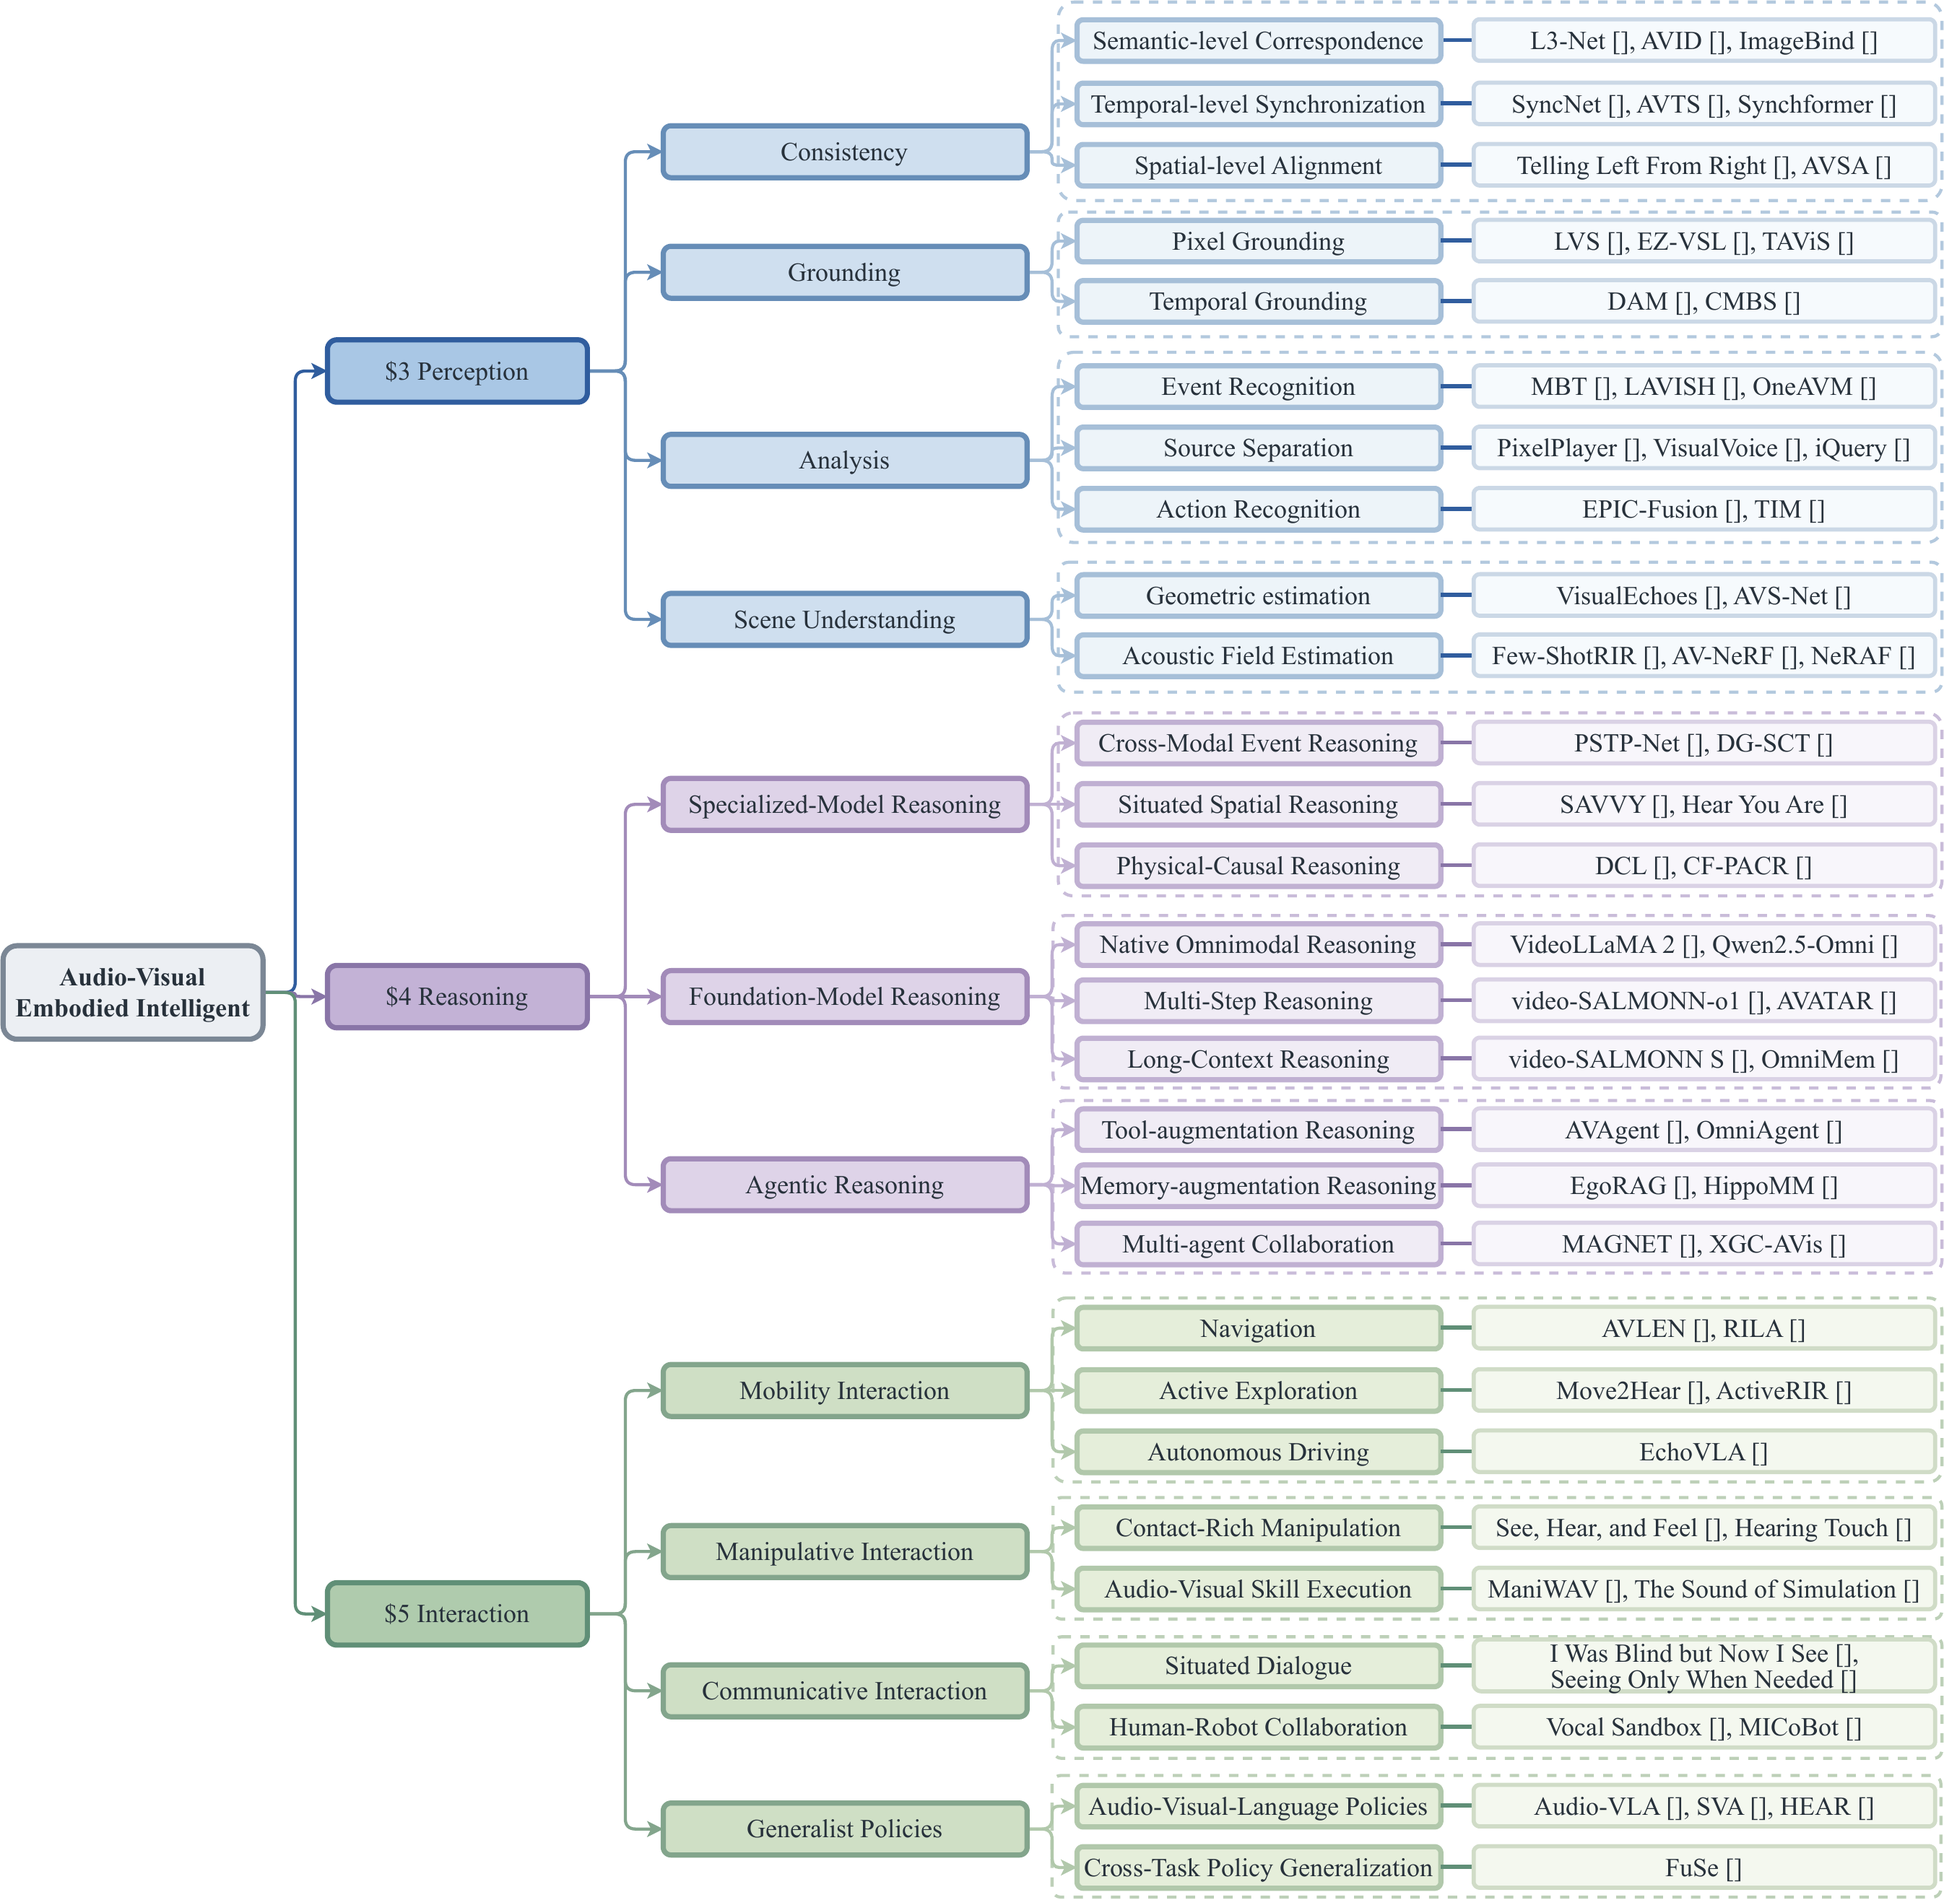
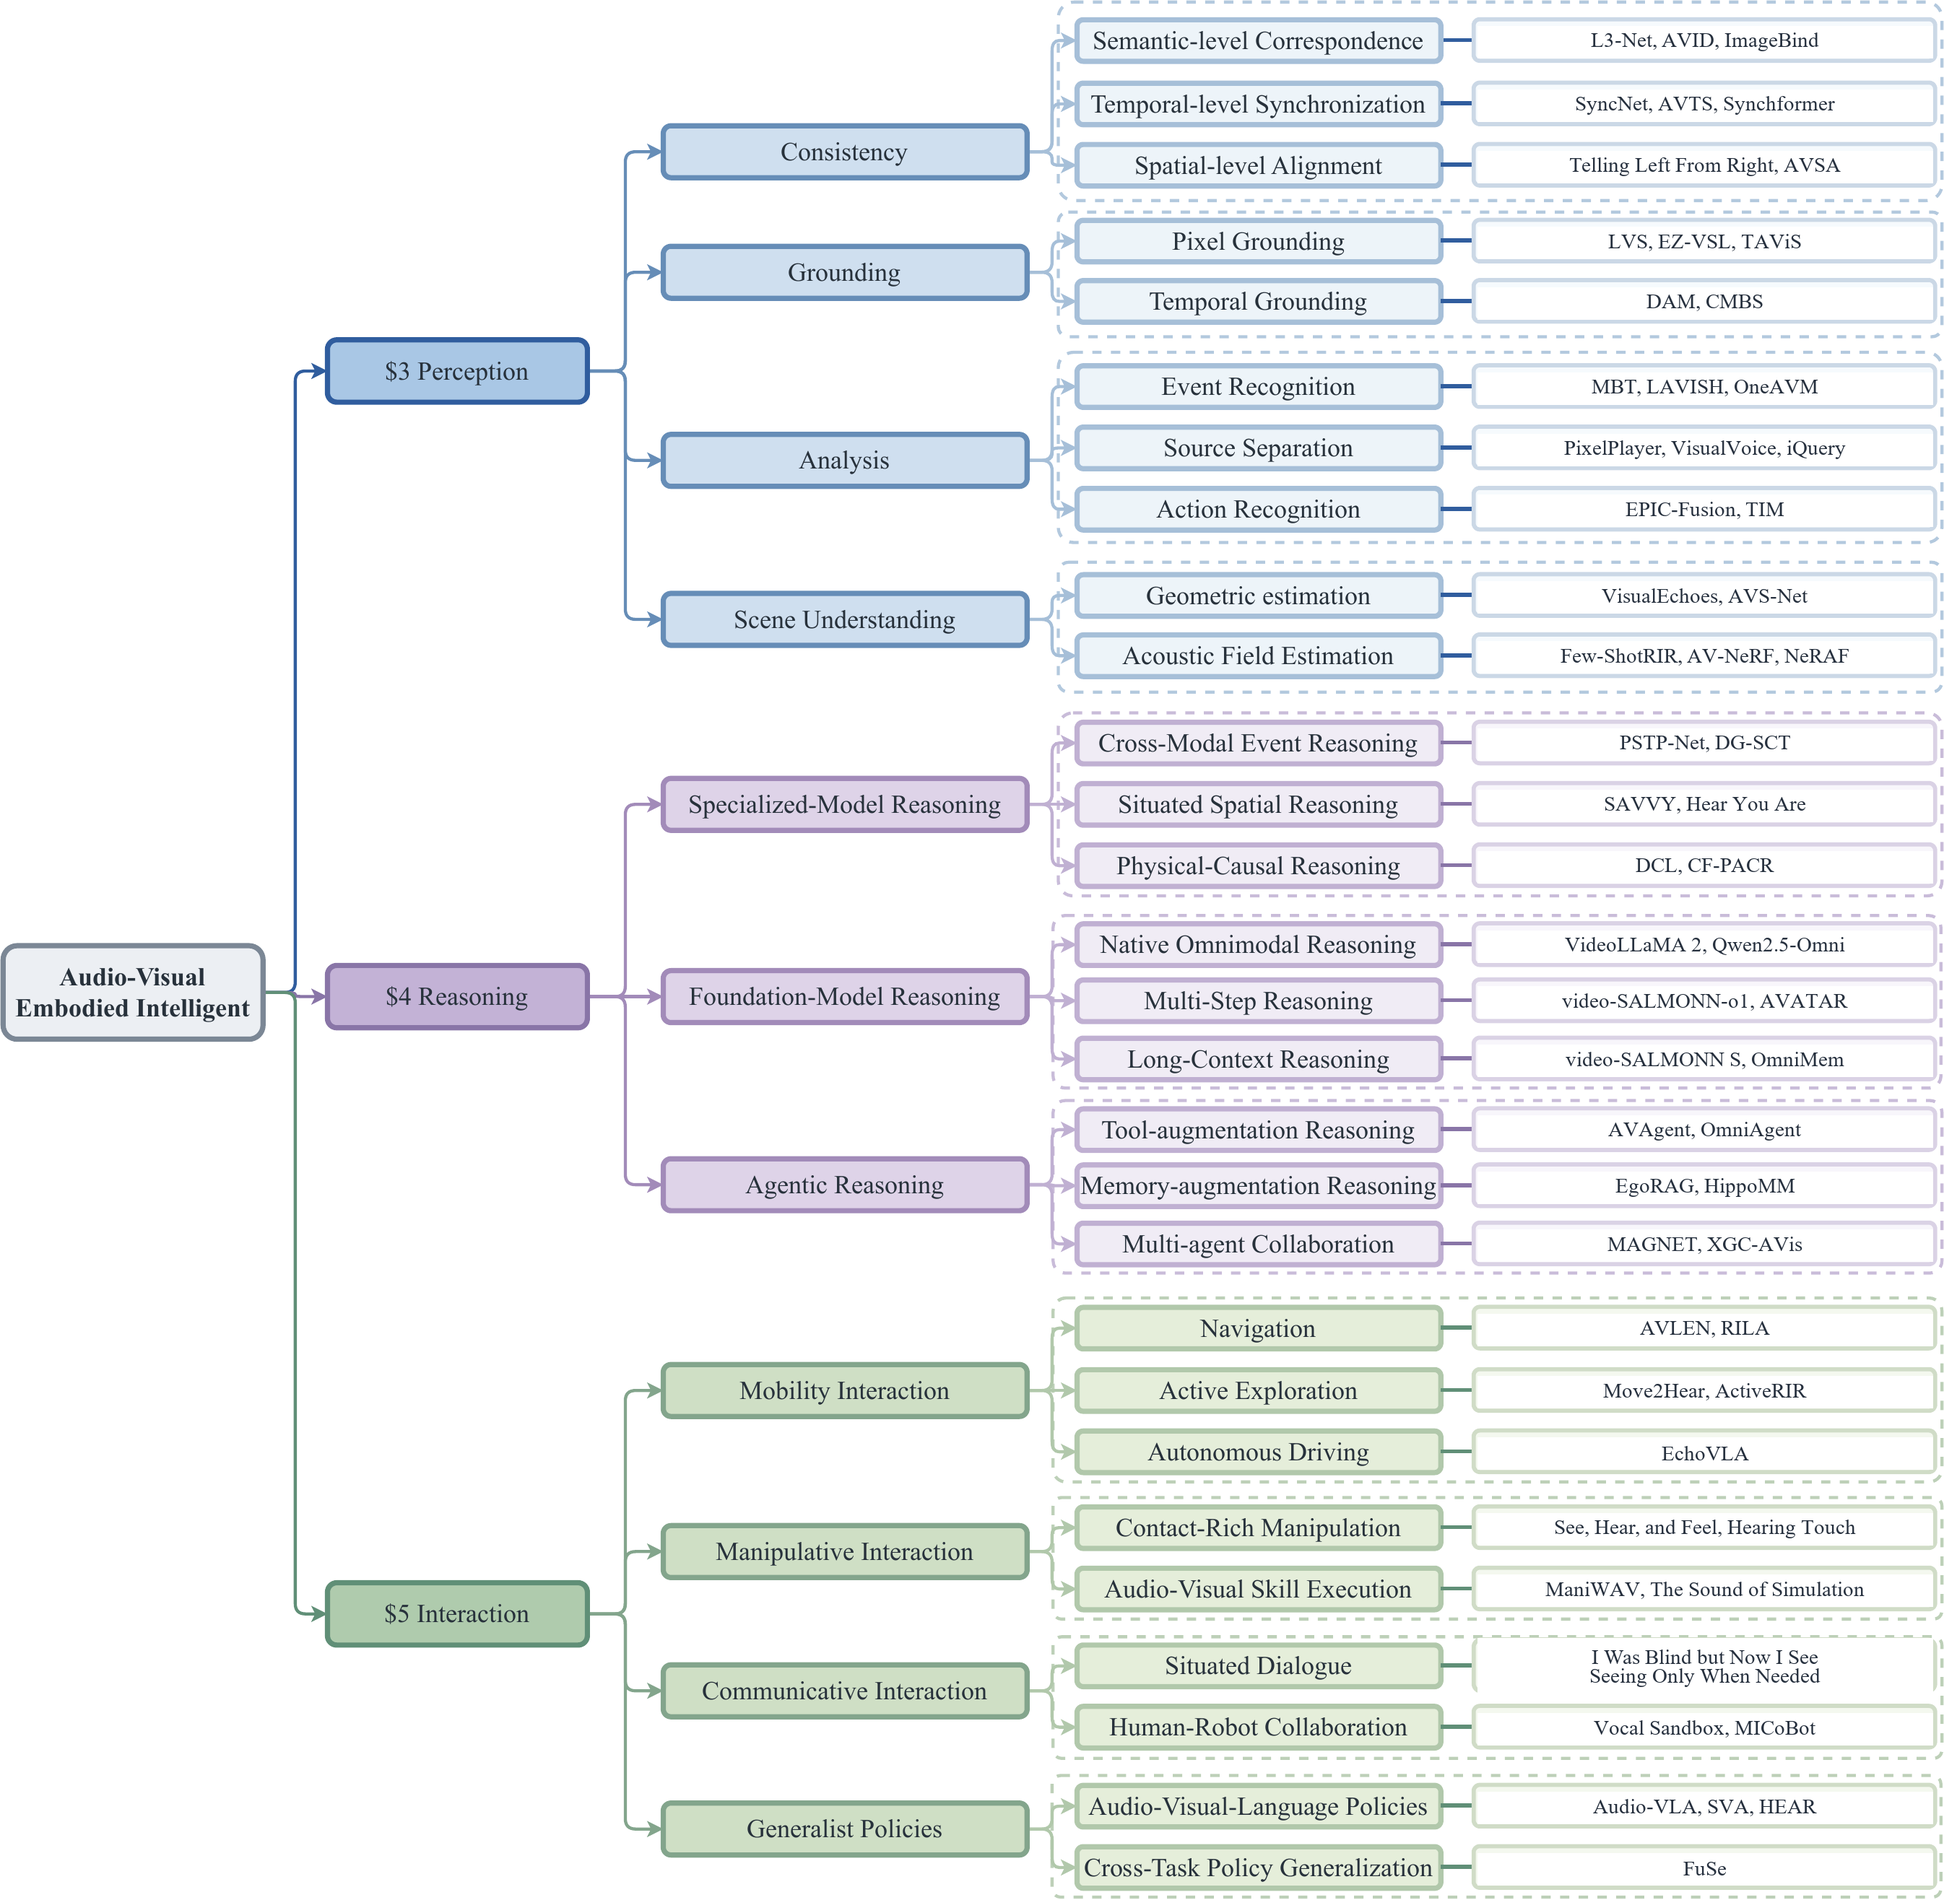
Remove empty citation brackets from taxonomy figure

diff --git a/index.html b/index.html
@@ -172,11 +172,11 @@
                   <button
                     class="image-button"
                     type="button"
-                    data-lightbox="assets/figures/taxonomy.png?v=20261025-2"
+                    data-lightbox="assets/figures/taxonomy.png?v=20261025-3"
                     data-caption="The complete taxonomy of audio-visual embodied intelligence across perception, reasoning, and interaction."
                   >
                     <img
-                      src="assets/figures/taxonomy.png?v=20261025-2"
+                      src="assets/figures/taxonomy.png?v=20261025-3"
                       alt="Complete taxonomy of audio-visual embodied intelligence methods and representative work"
                       loading="lazy"
                     />
